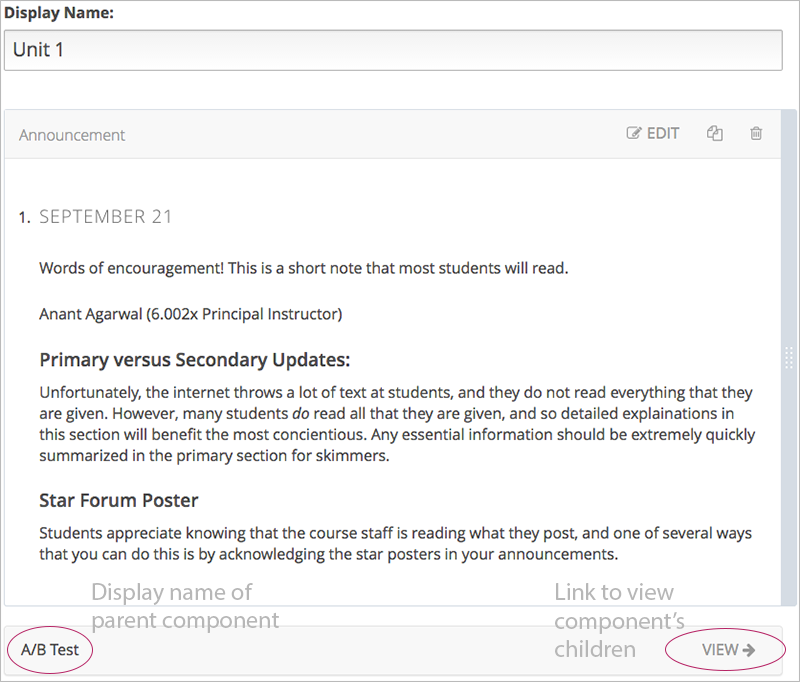
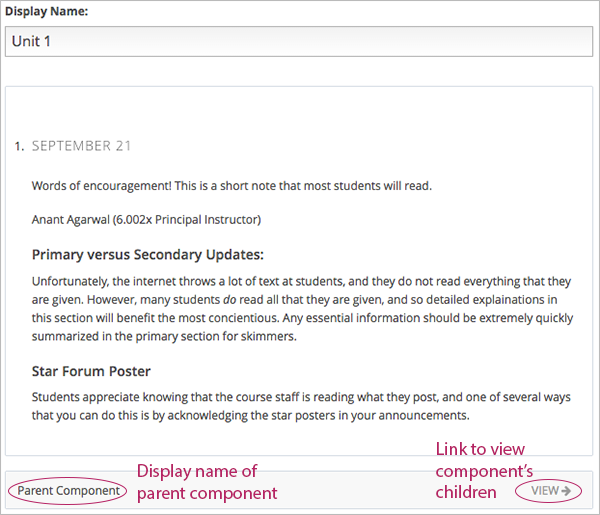
Review edits

diff --git a/docs/en_us/course_authors/source/building_course/organizing_course.rst b/docs/en_us/course_authors/source/building_course/organizing_course.rst
@@ -282,7 +282,7 @@ The ``<vertical>`` element above ireferences the parent component file that cont
  
 .. code-block:: xml
 
- <vertical display_name="A/B Test">
+ <vertical display_name="Parent Component">
   <vertical url_name="2758bbc495dd40d59050da15b40bd9a5"/>
   <vertical url_name="c5c8b27c2c5546e784432f3b2b6cf2ea"/>
  </vertical>
